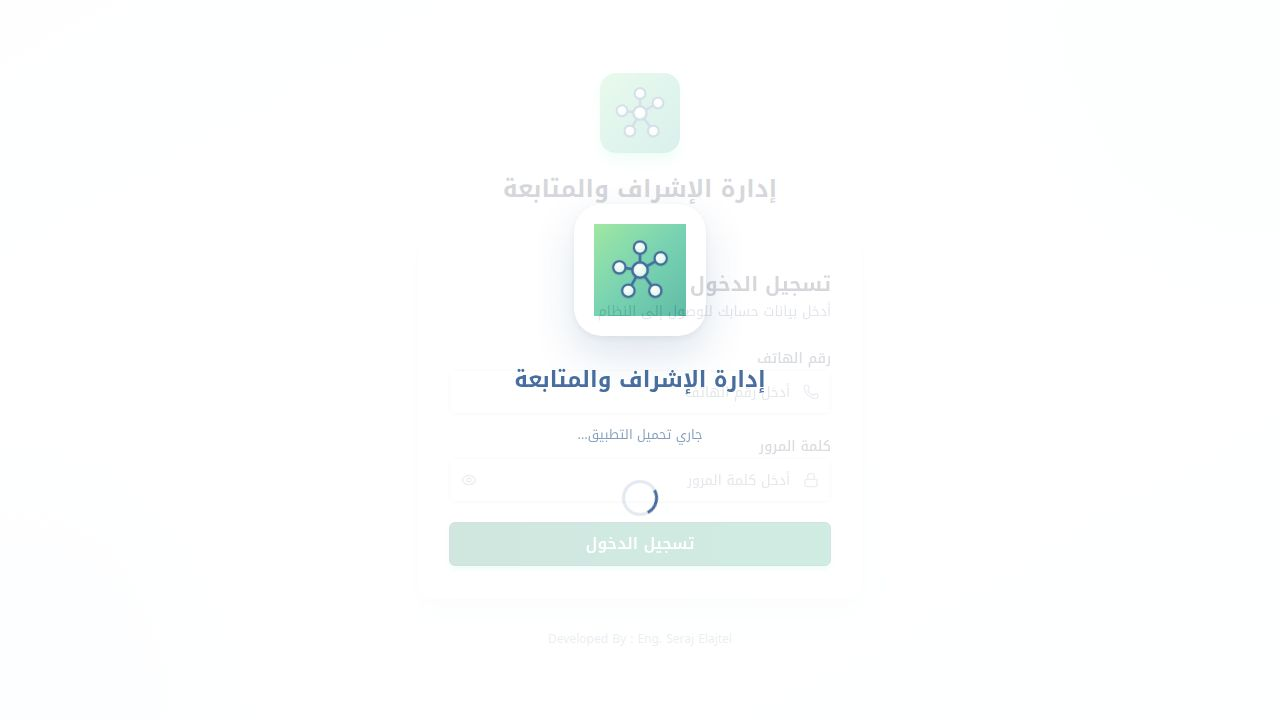
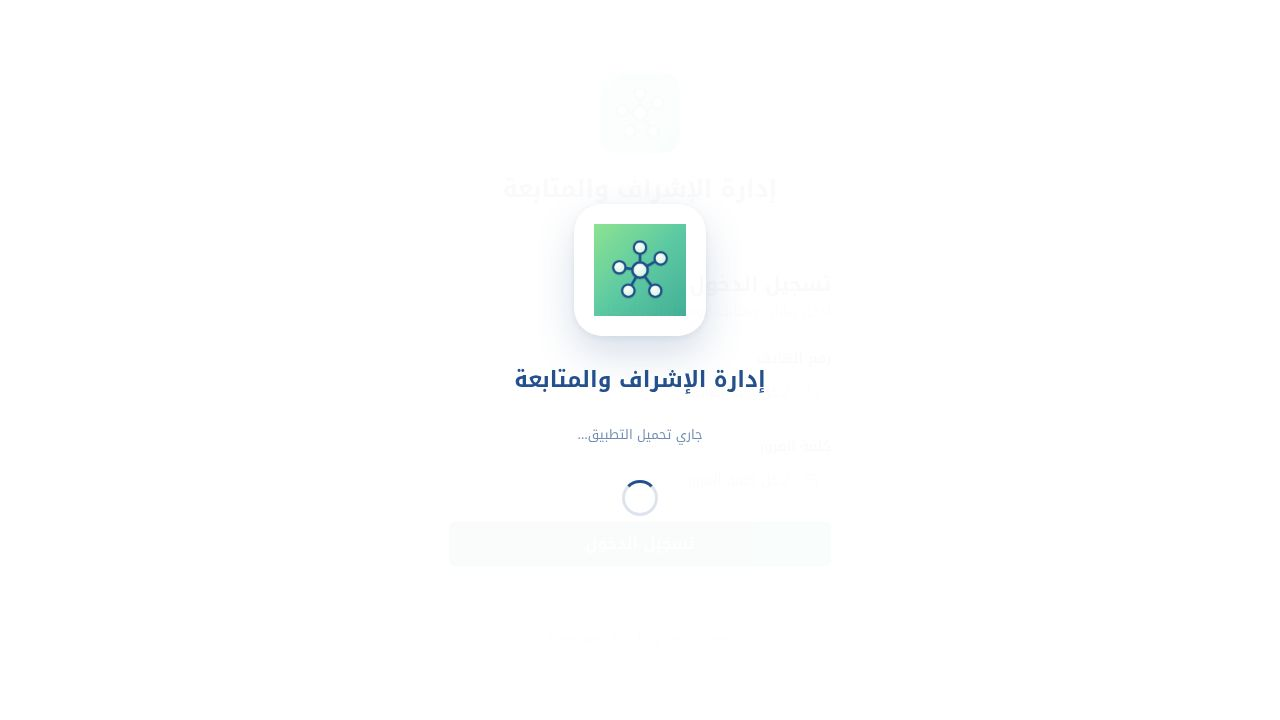
Add prominent attendance check-in/out card to project pages
Introduces a new `AttendanceQuickActions` component to `projects/[id].tsx`, allowing users to quickly check in/out directly from the project details page. The component handles selfie capture, GPS location, and status updates, while being hidden from project owners.

Replit-Commit-Author: Agent
Replit-Commit-Session-Id: db939d8e-1288-43cd-b911-5cf366d8697c
Replit-Commit-Checkpoint-Type: full_checkpoint
Replit-Commit-Event-Id: d41618b3-04eb-40d7-83ad-fd7c7f668b95
Replit-Commit-Screenshot-Url: https://storage.googleapis.com/screenshot-production-us-central1/36064327-e501-4c16-88c7-f8a88267d13f/db939d8e-1288-43cd-b911-5cf366d8697c/Bvxepaq
Replit-Helium-Checkpoint-Created: true

diff --git a/artifacts/construction-supervision/src/components/attendance-quick-actions.tsx b/artifacts/construction-supervision/src/components/attendance-quick-actions.tsx
@@ -1,0 +1,172 @@
+import { useState, useMemo } from "react";
+import { Link } from "wouter";
+import { useQuery, useQueryClient } from "@tanstack/react-query";
+import { Card, CardContent, CardHeader, CardTitle } from "@/components/ui/card";
+import { Button } from "@/components/ui/button";
+import { Badge } from "@/components/ui/badge";
+import { Loader2, LogIn, LogOut, AlertTriangle } from "lucide-react";
+import { useToast } from "@/hooks/use-toast";
+import { useAuth } from "@/hooks/use-auth";
+import { SelfieCameraDialog } from "@/components/selfie-camera-dialog";
+import { fmtLibyaDateTime, getCurrentPosition } from "@/lib/attendance-utils";
+
+const API_BASE = import.meta.env.BASE_URL.replace(/\/$/, "") + "/api";
+
+function authFetch(url: string, opts?: RequestInit) {
+  const token = localStorage.getItem("auth_token");
+  const headers: Record<string, string> = {};
+  if (token) headers["Authorization"] = `Bearer ${token}`;
+  return fetch(url, { ...opts, headers: { ...headers, ...(opts?.headers as Record<string, string> || {}) } });
+}
+
+interface MyStatus {
+  projectId: number;
+  currentlyCheckedIn: boolean;
+  lastRecord: { type: "check_in" | "check_out"; recordedAt: string; outOfRange: boolean } | null;
+}
+
+interface ProjectGeo {
+  siteLatitude?: number | null;
+  siteLongitude?: number | null;
+}
+
+interface AttendanceQuickActionsProps {
+  projectId: number;
+  project?: ProjectGeo;
+}
+
+export function AttendanceQuickActions({ projectId, project }: AttendanceQuickActionsProps) {
+  const { user } = useAuth();
+  const { toast } = useToast();
+  const qc = useQueryClient();
+  const isOwner = user?.role === "owner";
+
+  const [open, setOpen] = useState(false);
+  const [pending, setPending] = useState<"check_in" | "check_out" | null>(null);
+  const [submitting, setSubmitting] = useState(false);
+
+  const { data: list = [], refetch } = useQuery<MyStatus[]>({
+    queryKey: ["/api/attendance/my-status"],
+    queryFn: async () => {
+      const r = await authFetch(`${API_BASE}/attendance/my-status`);
+      if (!r.ok) return [];
+      return r.json();
+    },
+    enabled: !!user && !isOwner,
+    refetchInterval: 30000,
+  });
+
+  const status = useMemo(() => list.find(s => s.projectId === projectId), [list, projectId]);
+
+  if (isOwner) return null;
+
+  const isCheckedIn = !!status?.currentlyCheckedIn;
+  const last = status?.lastRecord;
+  const hasLocation = !!project?.siteLatitude && !!project?.siteLongitude;
+
+  function start(type: "check_in" | "check_out") {
+    setPending(type);
+    setOpen(true);
+  }
+
+  async function handleCapture(file: File) {
+    if (!pending) return;
+    setOpen(false);
+    setSubmitting(true);
+    try {
+      toast({ title: "جاري تحديد الموقع..." });
+      const pos = await getCurrentPosition();
+      const fd = new FormData();
+      fd.append("selfie", file, file.name);
+      fd.append("latitude", String(pos.coords.latitude));
+      fd.append("longitude", String(pos.coords.longitude));
+      if (Number.isFinite(pos.coords.accuracy)) fd.append("accuracy", String(pos.coords.accuracy));
+
+      const url = `${API_BASE}/attendance/projects/${projectId}/${pending === "check_in" ? "check-in" : "check-out"}`;
+      const r = await authFetch(url, { method: "POST", body: fd });
+      if (!r.ok) {
+        const err = await r.json().catch(() => ({}));
+        throw new Error(err?.error || "فشل تسجيل الحضور/الانصراف");
+      }
+      const rec: { outOfRange?: boolean } = await r.json();
+      toast({
+        title: pending === "check_in" ? "تم تسجيل الحضور" : "تم تسجيل الانصراف",
+        description: rec.outOfRange ? "تنبيه: خارج النطاق المحدد للموقع" : undefined,
+      });
+      refetch();
+      qc.invalidateQueries({ queryKey: [`/api/attendance/projects/${projectId}/active`] });
+      qc.invalidateQueries({ queryKey: [`/api/attendance/projects/${projectId}/records`] });
+      qc.invalidateQueries({ queryKey: [`/api/attendance/my-history`] });
+    } catch (e: unknown) {
+      const msg = e instanceof Error ? e.message : "حدث خطأ غير متوقع";
+      toast({ variant: "destructive", title: "تعذّر إتمام العملية", description: msg });
+    } finally {
+      setSubmitting(false);
+      setPending(null);
+    }
+  }
+
+  return (
+    <>
+      <Card className="border-2 border-primary/30 bg-primary/5">
+        <CardHeader className="pb-3">
+          <CardTitle className="text-base flex items-center gap-2 flex-wrap">
+            {isCheckedIn ? (
+              <Badge className="bg-green-600 hover:bg-green-600">مسجّل حضور الآن</Badge>
+            ) : (
+              <Badge variant="secondary">غير حاضر</Badge>
+            )}
+            <span>تسجيل الحضور والانصراف</span>
+            <Link href={`/projects/${projectId}/attendance`} className="text-xs text-primary hover:underline mr-auto">
+              التفاصيل والتقارير ←
+            </Link>
+          </CardTitle>
+        </CardHeader>
+        <CardContent className="space-y-3">
+          {!hasLocation && (
+            <div className="rounded-md bg-amber-50 dark:bg-amber-950/30 border border-amber-300 dark:border-amber-800 text-amber-900 dark:text-amber-200 text-xs p-2 flex gap-2">
+              <AlertTriangle className="h-4 w-4 mt-0.5 shrink-0" />
+              <span>لم يتم ضبط موقع الموقع للمشروع. سيتم قبول التسجيل بدون التحقق من النطاق.</span>
+            </div>
+          )}
+          {last && (
+            <div className="text-sm text-muted-foreground">
+              آخر إجراء: {last.type === "check_in" ? "حضور" : "انصراف"} —{" "}
+              <span className="font-medium text-foreground">{fmtLibyaDateTime(last.recordedAt)}</span>
+            </div>
+          )}
+          <div className="flex flex-wrap gap-2">
+            <Button
+              size="lg"
+              onClick={() => start("check_in")}
+              disabled={submitting || isCheckedIn}
+              className="bg-green-600 hover:bg-green-700"
+            >
+              {submitting ? <Loader2 className="h-4 w-4 ml-2 animate-spin" /> : <LogIn className="h-4 w-4 ml-2" />}
+              تسجيل حضور
+            </Button>
+            <Button
+              size="lg"
+              onClick={() => start("check_out")}
+              disabled={submitting || !isCheckedIn}
+              variant="destructive"
+            >
+              {submitting ? <Loader2 className="h-4 w-4 ml-2 animate-spin" /> : <LogOut className="h-4 w-4 ml-2" />}
+              تسجيل انصراف
+            </Button>
+          </div>
+          <p className="text-xs text-muted-foreground">
+            سيتم طلب صورة من الموقع + إحداثيات GPS. وقت الخادم تلقائي (توقيت ليبيا).
+          </p>
+        </CardContent>
+      </Card>
+
+      <SelfieCameraDialog
+        open={open}
+        onClose={() => { setOpen(false); setPending(null); }}
+        onCapture={handleCapture}
+        title={pending === "check_in" ? "صورة من الموقع للحضور" : "صورة من الموقع للانصراف"}
+      />
+    </>
+  );
+}

diff --git a/artifacts/construction-supervision/src/pages/projects/[id].tsx b/artifacts/construction-supervision/src/pages/projects/[id].tsx
@@ -25,6 +25,7 @@ import {
 import { ProjectNav } from "@/components/project-nav";
 import { ProjectMembers } from "@/components/project-members";
 import { ProjectQuickViewDialog } from "@/components/project-quick-view-dialog";
+import { AttendanceQuickActions } from "@/components/attendance-quick-actions";
 import { previewExecutiveSummary, type ActivityForReport } from "@/lib/report-pdf";
 import { useAuth } from "@/hooks/use-auth";
 
@@ -367,6 +368,12 @@ export default function ProjectDetails() {
 
       {/* ── Project Navigation ── */}
       <ProjectNav projectId={project.id} />
+
+      {/* ── Quick attendance check-in/out (visible to non-owner staff) ── */}
+      <AttendanceQuickActions
+        projectId={project.id}
+        project={{ siteLatitude: project.siteLatitude, siteLongitude: project.siteLongitude }}
+      />
 
       {/* ── Summary Content ── */}
       <div className="space-y-5">